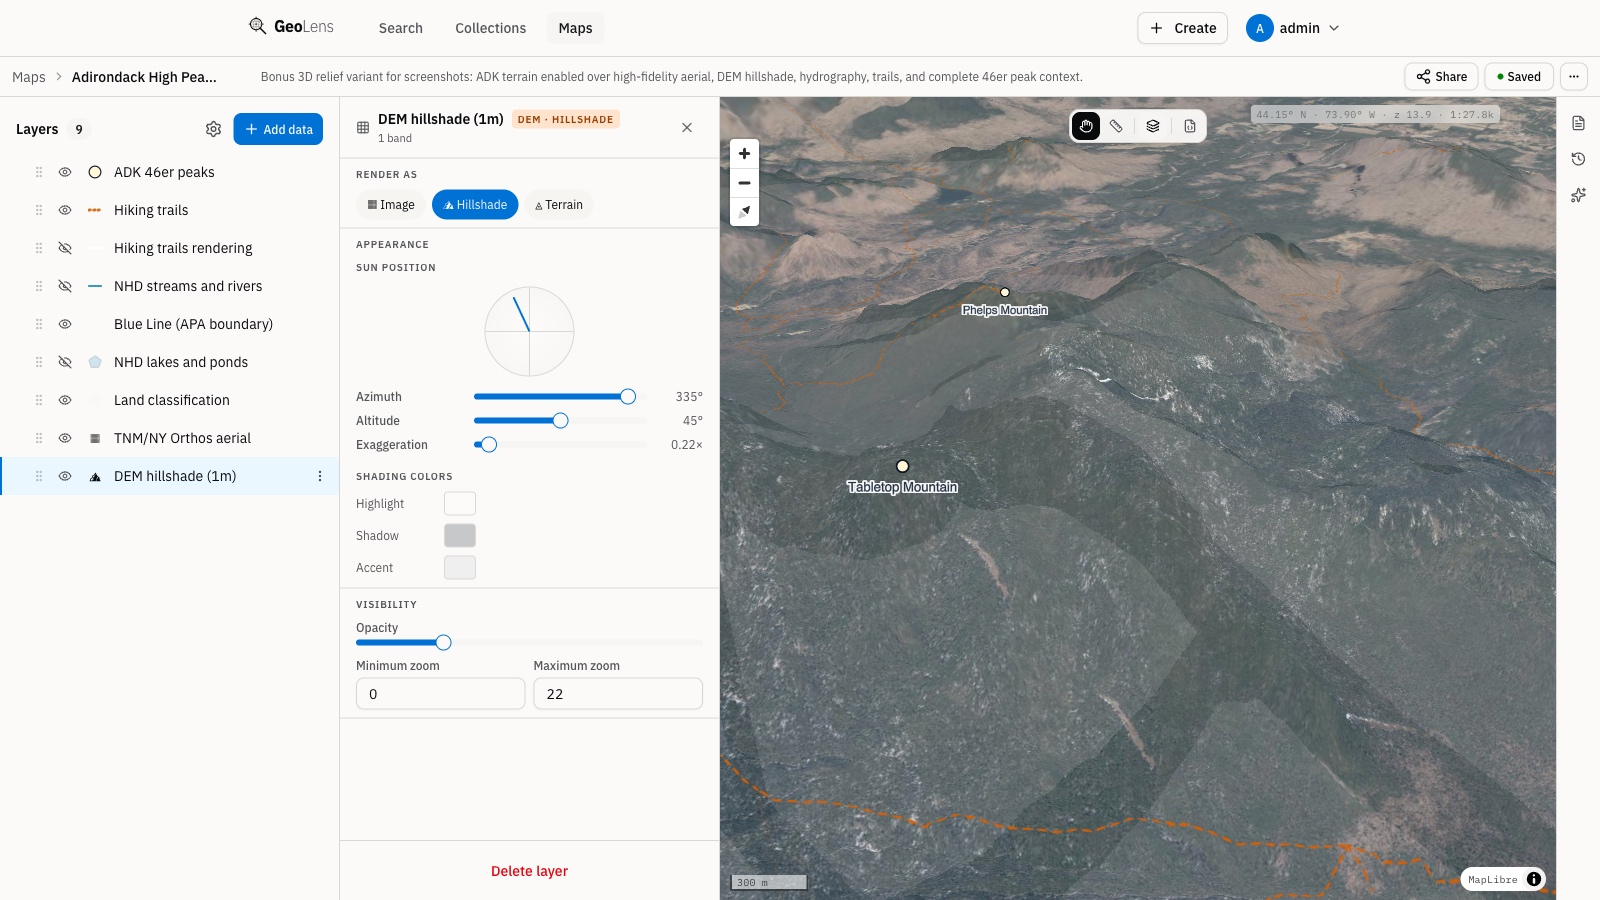
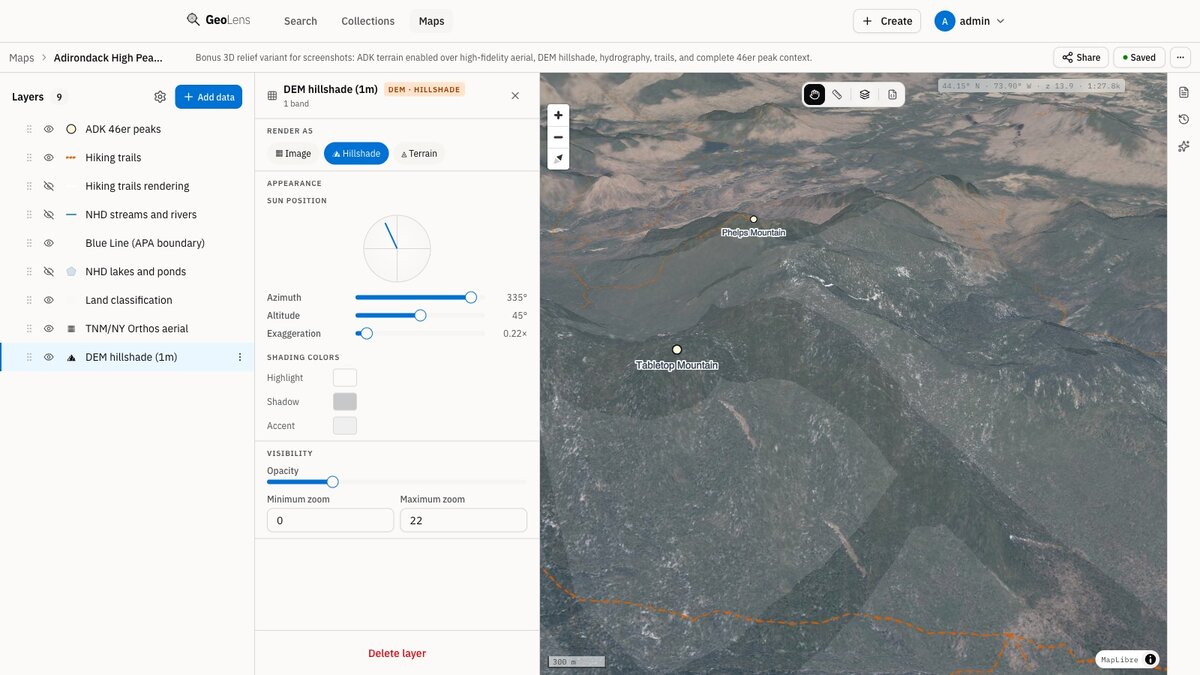
chore(branding): debrand "GeoLens Enterprise" to neutral edition wording (#127)
* chore(branding): debrand "GeoLens Enterprise" product name to neutral edition wording

The GeoLens Enterprise commercial offering is deferred and should not be named on public surfaces. Strip the "GeoLens" brand token from API docstrings, user-facing gating error messages (SAML/group-mapping/advanced-sharing), and admin SAML i18n (en/es/fr/de), leaving the existing neutral vocabulary ("the enterprise edition" / "the enterprise overlay"). The real community-vs-enterprise edition gating, the edition enum, and the /settings/enterprise-tabs/ route are intentionally left intact. Updated the 5 tests asserting the old error strings.

* chore(branding): regenerate OpenAPI snapshot + SDKs after enterprise debrand

Derived artifacts from the debrand: make openapi + make sdks. Pure description-text changes ("GeoLens Enterprise" -> "the enterprise edition"); no contract/structural changes.

* chore(branding): refresh README hero and map-builder showcase assets

Changed region(s): [[0.2467, 0.1244, 0.3083, 0.1556], [0.3083, 0.9644, 0.3392, 0.9956], [0.1542, 0.1244, 0.185, 0.1556]]

diff --git a/sdks/typescript/src/client/sdk.gen.ts b/sdks/typescript/src/client/sdk.gen.ts
@@ -2236,7 +2236,7 @@ export const listEmbedTokensEndpointMapsMapIdEmbedTokensGet = <ThrowOnError exte
  * Create an embed token scoped to a map's current layers.
  *
  * Community supports the default 30-day unrestricted token. Custom lifetimes
- * and non-empty origin restrictions require GeoLens Enterprise.
+ * and non-empty origin restrictions require the enterprise edition.
  */
 export const createEmbedTokenEndpointMapsMapIdEmbedTokensPost = <ThrowOnError extends boolean = false>(options: Options<CreateEmbedTokenEndpointMapsMapIdEmbedTokensPostData, ThrowOnError>) => (options.client ?? client).post<CreateEmbedTokenEndpointMapsMapIdEmbedTokensPostResponses, CreateEmbedTokenEndpointMapsMapIdEmbedTokensPostErrors, ThrowOnError>({
     security: [{ scheme: 'bearer', type: 'http' }],
@@ -2264,7 +2264,7 @@ export const revokeEmbedTokenEndpointMapsMapIdEmbedTokensTokenIdDelete = <ThrowO
  *
  * Update embed token allowed_origins.
  *
- * Null clears restrictions. Non-empty origin restrictions require GeoLens Enterprise.
+ * Null clears restrictions. Non-empty origin restrictions require the enterprise edition.
  */
 export const updateEmbedTokenEndpointMapsMapIdEmbedTokensTokenIdPatch = <ThrowOnError extends boolean = false>(options: Options<UpdateEmbedTokenEndpointMapsMapIdEmbedTokensTokenIdPatchData, ThrowOnError>) => (options.client ?? client).patch<UpdateEmbedTokenEndpointMapsMapIdEmbedTokensTokenIdPatchResponses, UpdateEmbedTokenEndpointMapsMapIdEmbedTokensTokenIdPatchErrors, ThrowOnError>({
     security: [{ scheme: 'bearer', type: 'http' }],
@@ -2435,7 +2435,7 @@ export const getMapShareTokenEndpointMapsMapIdShareGet = <ThrowOnError extends b
  *
  * Update expiration on an existing share token. Owner or admin only.
  *
- * Null clears expiration. Setting a non-null expiration requires GeoLens Enterprise.
+ * Null clears expiration. Setting a non-null expiration requires the enterprise edition.
  */
 export const updateMapShareTokenEndpointMapsMapIdSharePatch = <ThrowOnError extends boolean = false>(options: Options<UpdateMapShareTokenEndpointMapsMapIdSharePatchData, ThrowOnError>) => (options.client ?? client).patch<UpdateMapShareTokenEndpointMapsMapIdSharePatchResponses, UpdateMapShareTokenEndpointMapsMapIdSharePatchErrors, ThrowOnError>({
     security: [{ scheme: 'bearer', type: 'http' }],
@@ -2453,7 +2453,7 @@ export const updateMapShareTokenEndpointMapsMapIdSharePatch = <ThrowOnError exte
  * Create or retrieve a share token for a public map.
  *
  * Community supports basic non-expiring share links. Non-null expiration
- * requires GeoLens Enterprise.
+ * requires the enterprise edition.
  */
 export const shareMapEndpointMapsMapIdSharePost = <ThrowOnError extends boolean = false>(options: Options<ShareMapEndpointMapsMapIdSharePostData, ThrowOnError>) => (options.client ?? client).post<ShareMapEndpointMapsMapIdSharePostResponses, ShareMapEndpointMapsMapIdSharePostErrors, ThrowOnError>({
     security: [{ scheme: 'bearer', type: 'http' }],

diff --git a/sdks/typescript/src/client/types.gen.ts b/sdks/typescript/src/client/types.gen.ts
@@ -3210,13 +3210,13 @@ export type EmbedTokenCreate = {
     /**
      * Allowed Origins
      *
-     * Restrict embedding to these origins. Omit or null allows any origin; non-empty origin restrictions require GeoLens Enterprise.
+     * Restrict embedding to these origins. Omit or null allows any origin; non-empty origin restrictions require the enterprise edition.
      */
     allowed_origins?: Array<string> | null;
     /**
      * Expires In Days
      *
-     * Token lifetime in days (1-365). The default 30-day lifetime is available in Community; custom lifetimes require GeoLens Enterprise.
+     * Token lifetime in days (1-365). The default 30-day lifetime is available in Community; custom lifetimes require the enterprise edition.
      */
     expires_in_days?: number;
     /**
@@ -3352,7 +3352,7 @@ export type EmbedTokenUpdate = {
     /**
      * Allowed Origins
      *
-     * Updated list of allowed embedding origins. Null clears restrictions; non-empty origin restrictions require GeoLens Enterprise.
+     * Updated list of allowed embedding origins. Null clears restrictions; non-empty origin restrictions require the enterprise edition.
      */
     allowed_origins?: Array<string> | null;
 };
@@ -7425,7 +7425,7 @@ export type ShareTokenRequest = {
     /**
      * Expires At
      *
-     * Expiration timestamp. Null creates a basic non-expiring share link; non-null expiration requires GeoLens Enterprise.
+     * Expiration timestamp. Null creates a basic non-expiring share link; non-null expiration requires the enterprise edition.
      */
     expires_at?: string | null;
 };

diff --git a/backend/app/modules/auth/oauth/schemas.py b/backend/app/modules/auth/oauth/schemas.py
@@ -47,7 +47,7 @@ SAML_PROVIDER_FIELDS = (
     "idp_certificate",
     "sp_entity_id",
 )
-SAML_PROVIDER_ERROR = "SAML SSO requires the GeoLens Enterprise overlay"
+SAML_PROVIDER_ERROR = "SAML SSO requires the enterprise overlay"
 
 
 class OAuthProviderCreate(BaseModel):
@@ -201,14 +201,14 @@ class OAuthProviderCreate(BaseModel):
         if not is_enterprise():
             if self.group_claim is not None:
                 raise ValueError(
-                    "Group-based role mapping requires the GeoLens Enterprise overlay"
+                    "Group-based role mapping requires the enterprise overlay"
                 )
             if (
                 isinstance(self.group_role_mapping, dict)
                 and len(self.group_role_mapping) > 0
             ):
                 raise ValueError(
-                    "Group-based role mapping requires the GeoLens Enterprise overlay"
+                    "Group-based role mapping requires the enterprise overlay"
                 )
         return self
 
@@ -330,14 +330,14 @@ class OAuthProviderUpdate(BaseModel):
         if not is_enterprise():
             if self.group_claim is not None:
                 raise ValueError(
-                    "Group-based role mapping requires the GeoLens Enterprise overlay"
+                    "Group-based role mapping requires the enterprise overlay"
                 )
             if (
                 isinstance(self.group_role_mapping, dict)
                 and len(self.group_role_mapping) > 0
             ):
                 raise ValueError(
-                    "Group-based role mapping requires the GeoLens Enterprise overlay"
+                    "Group-based role mapping requires the enterprise overlay"
                 )
         return self
 

diff --git a/backend/app/modules/embed_tokens/schemas.py b/backend/app/modules/embed_tokens/schemas.py
@@ -7,7 +7,7 @@ from pydantic import BaseModel, ConfigDict, Field, field_validator, model_valida
 from app.core.edition import is_enterprise
 
 ADVANCED_SHARING_ERROR = (
-    "Advanced sharing controls require the GeoLens Enterprise overlay"
+    "Advanced sharing controls require the enterprise overlay"
 )
 
 
@@ -65,7 +65,7 @@ class EmbedTokenCreate(BaseModel):
         le=365,
         description=(
             "Token lifetime in days (1-365). The default 30-day lifetime is "
-            "available in Community; custom lifetimes require GeoLens Enterprise."
+            "available in Community; custom lifetimes require the enterprise edition."
         ),
         json_schema_extra={"example": 90},
     )
@@ -81,7 +81,7 @@ class EmbedTokenCreate(BaseModel):
         max_length=50,
         description=(
             "Restrict embedding to these origins. Omit or null allows any origin; "
-            "non-empty origin restrictions require GeoLens Enterprise."
+            "non-empty origin restrictions require the enterprise edition."
         ),
         json_schema_extra={"example": ["https://dashboard.example.com"]},
     )
@@ -106,7 +106,7 @@ class EmbedTokenUpdate(BaseModel):
         max_length=50,
         description=(
             "Updated list of allowed embedding origins. Null clears restrictions; "
-            "non-empty origin restrictions require GeoLens Enterprise."
+            "non-empty origin restrictions require the enterprise edition."
         ),
     )
 

diff --git a/sdks/python/geolens/api/embed_tokens/create_embed_token_endpoint_maps_map_id_embed_tokens_post.py b/sdks/python/geolens/api/embed_tokens/create_embed_token_endpoint_maps_map_id_embed_tokens_post.py
@@ -107,7 +107,7 @@ def sync_detailed(
      Create an embed token scoped to a map's current layers.
 
     Community supports the default 30-day unrestricted token. Custom lifetimes
-    and non-empty origin restrictions require GeoLens Enterprise.
+    and non-empty origin restrictions require the enterprise edition.
 
     Args:
         map_id (UUID):
@@ -144,7 +144,7 @@ def sync(
      Create an embed token scoped to a map's current layers.
 
     Community supports the default 30-day unrestricted token. Custom lifetimes
-    and non-empty origin restrictions require GeoLens Enterprise.
+    and non-empty origin restrictions require the enterprise edition.
 
     Args:
         map_id (UUID):
@@ -176,7 +176,7 @@ async def asyncio_detailed(
      Create an embed token scoped to a map's current layers.
 
     Community supports the default 30-day unrestricted token. Custom lifetimes
-    and non-empty origin restrictions require GeoLens Enterprise.
+    and non-empty origin restrictions require the enterprise edition.
 
     Args:
         map_id (UUID):
@@ -211,7 +211,7 @@ async def asyncio(
      Create an embed token scoped to a map's current layers.
 
     Community supports the default 30-day unrestricted token. Custom lifetimes
-    and non-empty origin restrictions require GeoLens Enterprise.
+    and non-empty origin restrictions require the enterprise edition.
 
     Args:
         map_id (UUID):

diff --git a/sdks/python/geolens/api/embed_tokens/update_embed_token_endpoint_maps_map_id_embed_tokens_token_id_patch.py b/sdks/python/geolens/api/embed_tokens/update_embed_token_endpoint_maps_map_id_embed_tokens_token_id_patch.py
@@ -109,7 +109,7 @@ def sync_detailed(
 
      Update embed token allowed_origins.
 
-    Null clears restrictions. Non-empty origin restrictions require GeoLens Enterprise.
+    Null clears restrictions. Non-empty origin restrictions require the enterprise edition.
 
     Args:
         map_id (UUID):
@@ -148,7 +148,7 @@ def sync(
 
      Update embed token allowed_origins.
 
-    Null clears restrictions. Non-empty origin restrictions require GeoLens Enterprise.
+    Null clears restrictions. Non-empty origin restrictions require the enterprise edition.
 
     Args:
         map_id (UUID):
@@ -182,7 +182,7 @@ async def asyncio_detailed(
 
      Update embed token allowed_origins.
 
-    Null clears restrictions. Non-empty origin restrictions require GeoLens Enterprise.
+    Null clears restrictions. Non-empty origin restrictions require the enterprise edition.
 
     Args:
         map_id (UUID):
@@ -219,7 +219,7 @@ async def asyncio(
 
      Update embed token allowed_origins.
 
-    Null clears restrictions. Non-empty origin restrictions require GeoLens Enterprise.
+    Null clears restrictions. Non-empty origin restrictions require the enterprise edition.
 
     Args:
         map_id (UUID):

diff --git a/sdks/python/geolens/api/maps/share_map_endpoint_maps_map_id_share_post.py b/sdks/python/geolens/api/maps/share_map_endpoint_maps_map_id_share_post.py
@@ -111,7 +111,7 @@ def sync_detailed(
      Create or retrieve a share token for a public map.
 
     Community supports basic non-expiring share links. Non-null expiration
-    requires GeoLens Enterprise.
+    requires the enterprise edition.
 
     Args:
         map_id (UUID):
@@ -148,7 +148,7 @@ def sync(
      Create or retrieve a share token for a public map.
 
     Community supports basic non-expiring share links. Non-null expiration
-    requires GeoLens Enterprise.
+    requires the enterprise edition.
 
     Args:
         map_id (UUID):
@@ -180,7 +180,7 @@ async def asyncio_detailed(
      Create or retrieve a share token for a public map.
 
     Community supports basic non-expiring share links. Non-null expiration
-    requires GeoLens Enterprise.
+    requires the enterprise edition.
 
     Args:
         map_id (UUID):
@@ -215,7 +215,7 @@ async def asyncio(
      Create or retrieve a share token for a public map.
 
     Community supports basic non-expiring share links. Non-null expiration
-    requires GeoLens Enterprise.
+    requires the enterprise edition.
 
     Args:
         map_id (UUID):

diff --git a/sdks/python/geolens/api/maps/update_map_share_token_endpoint_maps_map_id_share_patch.py b/sdks/python/geolens/api/maps/update_map_share_token_endpoint_maps_map_id_share_patch.py
@@ -106,7 +106,7 @@ def sync_detailed(
 
      Update expiration on an existing share token. Owner or admin only.
 
-    Null clears expiration. Setting a non-null expiration requires GeoLens Enterprise.
+    Null clears expiration. Setting a non-null expiration requires the enterprise edition.
 
     Args:
         map_id (UUID):
@@ -142,7 +142,7 @@ def sync(
 
      Update expiration on an existing share token. Owner or admin only.
 
-    Null clears expiration. Setting a non-null expiration requires GeoLens Enterprise.
+    Null clears expiration. Setting a non-null expiration requires the enterprise edition.
 
     Args:
         map_id (UUID):
@@ -173,7 +173,7 @@ async def asyncio_detailed(
 
      Update expiration on an existing share token. Owner or admin only.
 
-    Null clears expiration. Setting a non-null expiration requires GeoLens Enterprise.
+    Null clears expiration. Setting a non-null expiration requires the enterprise edition.
 
     Args:
         map_id (UUID):
@@ -207,7 +207,7 @@ async def asyncio(
 
      Update expiration on an existing share token. Owner or admin only.
 
-    Null clears expiration. Setting a non-null expiration requires GeoLens Enterprise.
+    Null clears expiration. Setting a non-null expiration requires the enterprise edition.
 
     Args:
         map_id (UUID):

diff --git a/backend/tests/test_oauth.py b/backend/tests/test_oauth.py
@@ -849,7 +849,7 @@ class TestIdpRoleMappingGate:
             OAuthProviderCreate(**self._create_payload(group_claim="groups"))
 
         assert (
-            "Group-based role mapping requires the GeoLens Enterprise overlay"
+            "Group-based role mapping requires the enterprise overlay"
             in str(exc_info.value)
         )
 
@@ -865,7 +865,7 @@ class TestIdpRoleMappingGate:
             )
 
         assert (
-            "Group-based role mapping requires the GeoLens Enterprise overlay"
+            "Group-based role mapping requires the enterprise overlay"
             in str(exc_info.value)
         )
 
@@ -895,7 +895,7 @@ class TestIdpRoleMappingGate:
             OAuthProviderUpdate(group_role_mapping={"admins": "admin"})
 
         assert (
-            "Group-based role mapping requires the GeoLens Enterprise overlay"
+            "Group-based role mapping requires the enterprise overlay"
             in str(exc_info.value)
         )
 

diff --git a/backend/app/modules/catalog/maps/router.py b/backend/app/modules/catalog/maps/router.py
@@ -1214,7 +1214,7 @@ async def share_map_endpoint(
     """Create or retrieve a share token for a public map.
 
     Community supports basic non-expiring share links. Non-null expiration
-    requires GeoLens Enterprise.
+    requires the enterprise edition.
     """
     map_obj = await get_map(db, map_id)
     if map_obj is None:
@@ -1269,7 +1269,7 @@ async def update_map_share_token_endpoint(
 ) -> ShareTokenResponse:
     """Update expiration on an existing share token. Owner or admin only.
 
-    Null clears expiration. Setting a non-null expiration requires GeoLens Enterprise.
+    Null clears expiration. Setting a non-null expiration requires the enterprise edition.
     """
     map_obj = await get_map(db, map_id)
     if map_obj is None:

diff --git a/backend/app/modules/catalog/maps/schemas.py b/backend/app/modules/catalog/maps/schemas.py
@@ -18,7 +18,7 @@ from app.core.edition import is_enterprise
 from app.core.text import normalize_nfc as _nfc
 
 ADVANCED_SHARING_ERROR = (
-    "Advanced sharing controls require the GeoLens Enterprise overlay"
+    "Advanced sharing controls require the enterprise overlay"
 )
 LEGACY_BUILDER_PAINT_KEYS = {
     "_outline-width": "outline_width",
@@ -942,7 +942,7 @@ class ShareTokenRequest(BaseModel):
         default=None,
         description=(
             "Expiration timestamp. Null creates a basic non-expiring share link; "
-            "non-null expiration requires GeoLens Enterprise."
+            "non-null expiration requires the enterprise edition."
         ),
     )
 

diff --git a/backend/app/modules/embed_tokens/router.py b/backend/app/modules/embed_tokens/router.py
@@ -76,7 +76,7 @@ async def create_embed_token_endpoint(
     """Create an embed token scoped to a map's current layers.
 
     Community supports the default 30-day unrestricted token. Custom lifetimes
-    and non-empty origin restrictions require GeoLens Enterprise.
+    and non-empty origin restrictions require the enterprise edition.
     """
     map_obj = await get_map(db, map_id)
     if map_obj is None:
@@ -153,7 +153,7 @@ async def update_embed_token_endpoint(
 ) -> EmbedTokenResponse:
     """Update embed token allowed_origins.
 
-    Null clears restrictions. Non-empty origin restrictions require GeoLens Enterprise.
+    Null clears restrictions. Non-empty origin restrictions require the enterprise edition.
     """
     map_obj = await get_map(db, map_id)
     if map_obj is None: